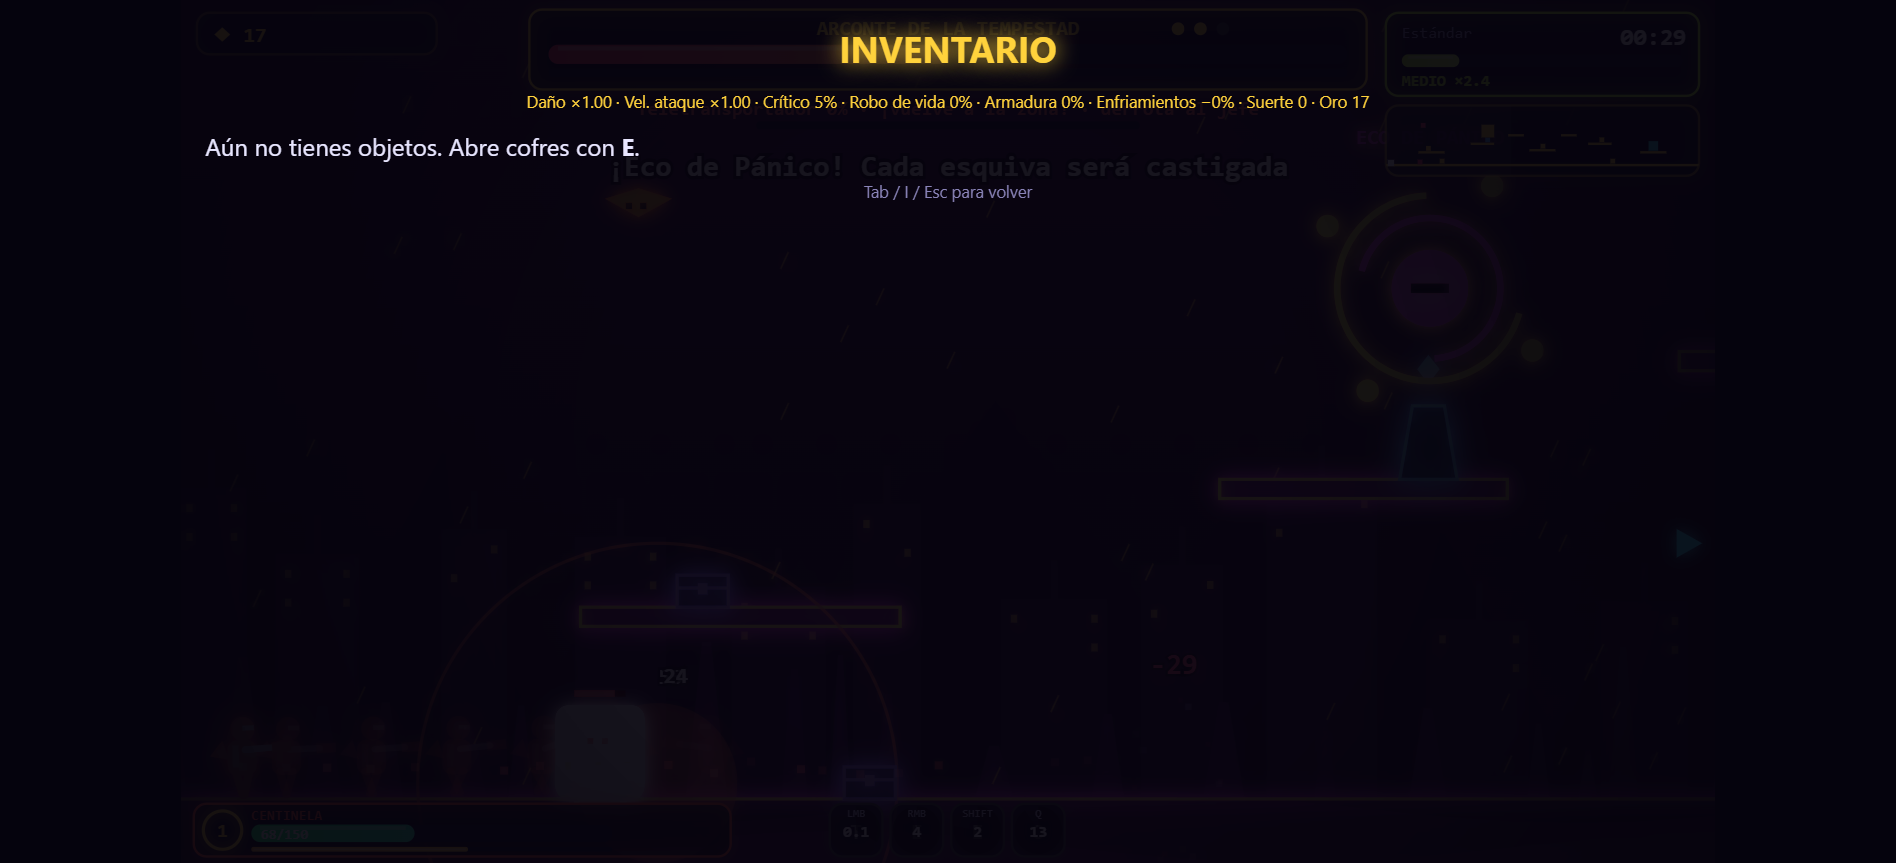
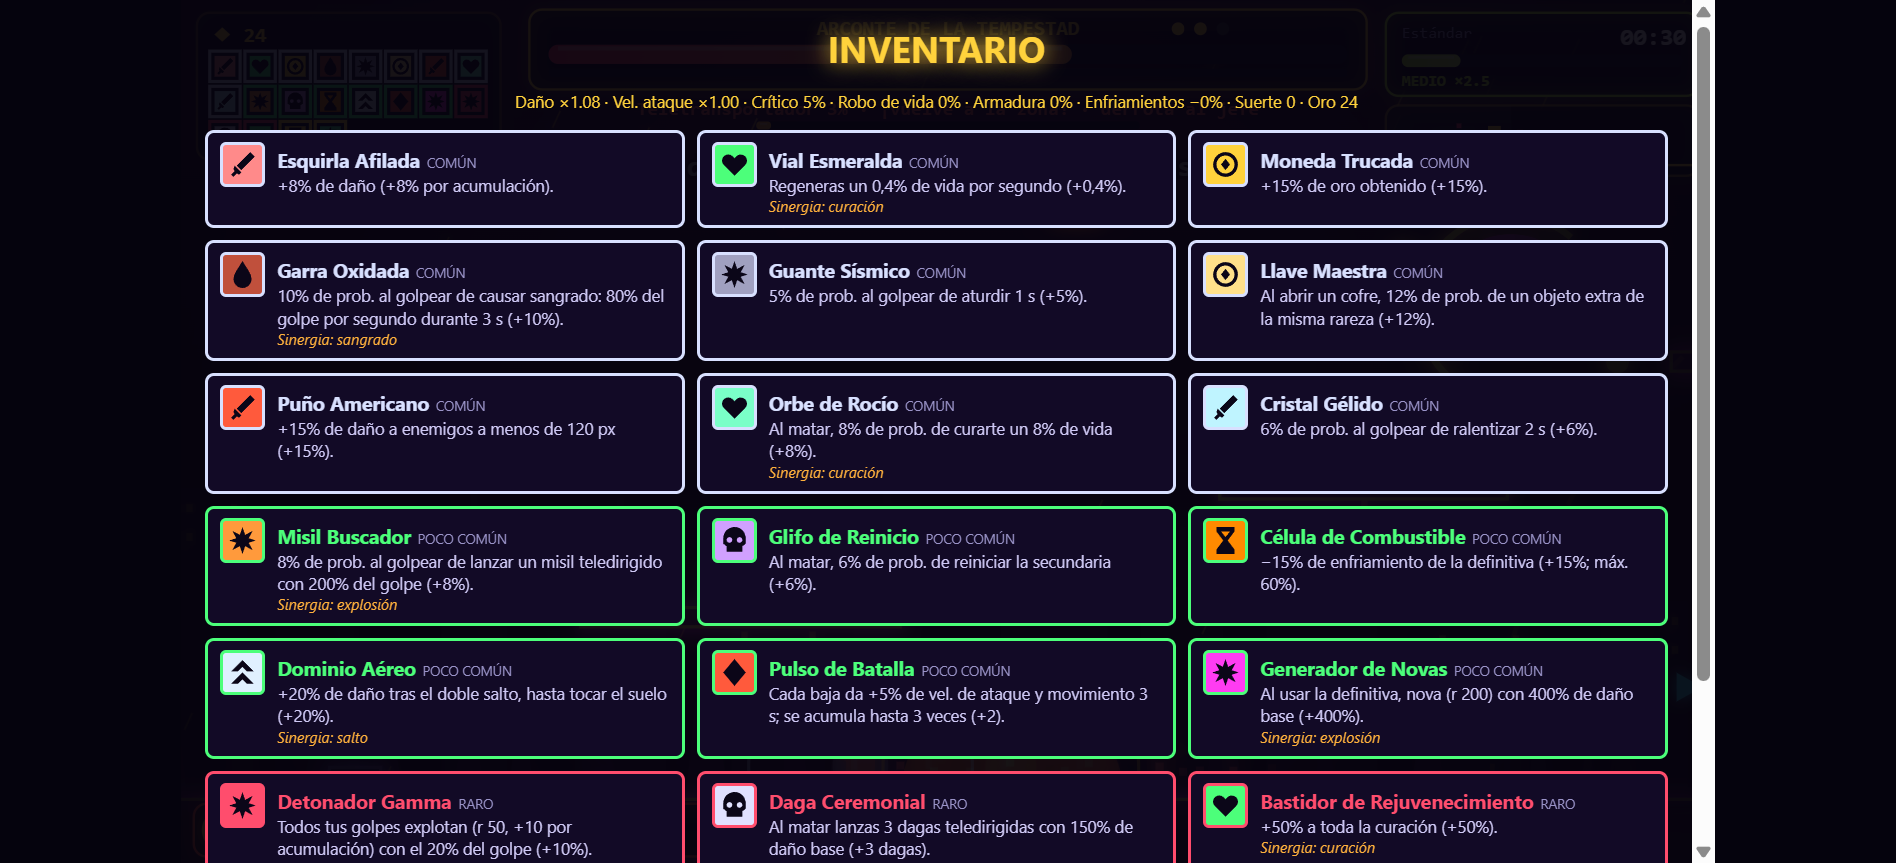
Pulido: ningún golpe se salta fases de jefe, iconos vectoriales, Reina legible y HUD de objetos sin solapes

Changed region(s): [[0.0934, 0.0, 0.9024, 1.0]]

diff --git a/art.js b/art.js
@@ -68,3 +68,49 @@ function drawEnemyArt(e,col){
  g.shadowBlur=0;const dx=sgn(S.p.x-cx)*2,dy=clamp((S.p.y-20-cy)/100,-1,1)*2,ey=e.d.shape==='diamond'||e.d.shape==='circle'||e.d.shape==='wing'||e.d.shape==='hex'?cy-2:e.y-h*.66;
  g.fillStyle=e.tell>0?'#ff3c3c':'#000';g.fillRect(cx-6+dx,ey+dy,4,4);g.fillRect(cx+3+dx,ey+dy,4,4);
 }
+
+/* ===================== ICONOS (glifos vectoriales 24×24) =====================
+   Un trazado SVG por glifo: el canvas lo pinta con Path2D y el HTML con <svg>. El glifo de cada objeto o
+   habilidad se deduce de su texto (tipo, nombre, descripción), así los 92 objetos y 60 habilidades no necesitan datos nuevos. */
+const GLYPH={
+ blade:'M19 1l4 4L11 17l-4-4zM5 13l6 6-2 2-2-1-3 3-2-2 3-3-1-2z',
+ burst:'M12 0l2.4 7L21 3.5 17.5 10 24 12l-6.5 2 3.5 6.5-6.6-3.5L12 24l-2.4-7L3 20.5 6.5 14 0 12l6.5-2L3 3.5 9.6 7z',
+ bolt:'M14 0L3 14h7l-3 10 12-14h-7l4-10z',
+ flame:'M12 0c1 5 8 8 8 15a8 8 0 01-16 0c0-4 3-6 3-10 2 2 3 5 3 5s3-3 2-10z',
+ drop:'M12 0C8 7 4 11 4 16a8 8 0 0016 0c0-5-4-9-8-16z',
+ shield:'M12 0l10 4v7c0 6-4 11-10 13C6 22 2 17 2 11V4z',
+ heart:'M12 22L2.5 12.5a5.5 5.5 0 017.8-7.8L12 6.4l1.7-1.7a5.5 5.5 0 017.8 7.8z',
+ plus:'M8.5 1h7v7.5H23v7h-7.5V23h-7v-7.5H1v-7h7.5z',
+ cross:'M11 0h2v6h-2zM11 18h2v6h-2zM0 11h6v2H0zM18 11h6v2h-6zM12 5a7 7 0 110 14 7 7 0 010-14zm0 3a4 4 0 100 8 4 4 0 000-8zm0 3a1 1 0 100 2 1 1 0 000-2z',
+ wing:'M12 1l10 10h-6l-4-4-4 4H2zM12 12l10 10h-6l-4-4-4 4H2z',
+ dash:'M1 2h6l10 10L7 22H1l10-10zM9 2h5l10 10-10 10H9l10-10z',
+ spring:'M3 2h18v3L9 8h12v3L9 14h12v3L9 20h12v3H3v-3l12-3H3v-3l12-3H3V8l12-3H3z',
+ hourglass:'M4 0h16v4l-6 8 6 8v4H4v-4l6-8-6-8zm4 4l4 5 4-5z',
+ coin:'M12 1a11 11 0 110 22 11 11 0 010-22zm0 3a8 8 0 100 16 8 8 0 000-16zm0 3l4 5-4 5-4-5z',
+ star:'M12 0l3.6 7.4 8.1 1.1-5.9 5.7 1.4 8L12 18.4 4.8 22.2l1.4-8L.3 8.5l8.1-1.1z',
+ book:'M3 1h13l5 5v17H3zm4 7v2.5h10V8zm0 5v2.5h10V13z',
+ bot:'M11 0h2v3h6a2 2 0 012 2v11a2 2 0 01-2 2H5a2 2 0 01-2-2V5a2 2 0 012-2h6zM7 7v5h4V7zm6 0v5h4V7zM6 20h12v4H6z',
+ missile:'M23 1l-2 9-7 7-2-2-4 4-4-4 4-4-2-2 7-7zM4 18l2 2-4 4-2-2z',
+ skull:'M12 0a10 10 0 0110 10v5l-3 2v5H5v-5l-3-2v-5A10 10 0 0112 0zM7.5 9a2.5 2.5 0 100 5 2.5 2.5 0 000-5zm9 0a2.5 2.5 0 100 5 2.5 2.5 0 000-5z',
+ gem:'M12 0l10 12-10 12L2 12z'};
+// en orden: gana la primera regla que encaje (por eso «explosión» va antes que «daño»)
+const GLYPH_RULES=[[/explo|nova|quake|slam|blackhole|orbital|sísm|terremot|onda/,'burst'],[/rayo|eléctr|bobina|chispa|static|chain|storm|beam|tesla|volt/,'bolt'],
+ [/fuego|quem|incendi|ígne|napalm|llama/,'flame'],[/sangr|hemorr|venen|corros|tóx|pact|sacrific/,'drop'],
+ [/escudo|armadura|blind|aegis|fortress|parry|cocoon|égida|bloque/,'shield'],[/roba|cura|regener|lastbreath/,'heart'],[/vida máx/,'plus'],
+ [/crít|snipe|riel|mira/,'cross'],[/salt|leap|jetpack|grapple|antigrav|recoil|alas|vuel/,'wing'],
+ [/enfriamiento|recarg|reloj|tiempo|rewind|freeze|congel/,'hourglass'],[/oro|moneda|cofre|precio|cupón/,'coin'],[/suerte|trébol/,'star'],
+ [/experiencia|nivel/,'book'],[/dron|torreta|turret|summon|raise|mine|bees|queen|invoc|esbirro|abeja/,'bot'],
+ [/misil|cohete|rocket|siege|barrage|granada|ringshot|proyectil|dispar|proj/,'missile'],
+ [/esquiv|dash|blink|voidstep|bloodstep|phase|swap|gate|portal|rift|telet|velocidad de movimiento/,'dash'],
+ [/velocidad de ataque|combo|flurry/,'spring'],[/mata|muert|ejecut|guillotina|warcry|primal|morph|rage|ira\b/,'skull'],
+ [/daño|melee|hammer|golpe|tajo|corte/,'blade']];
+const TAG_GLYPH={'curación':'heart','explosión':'burst','crítico':'cross','sangrado':'drop','veneno':'drop','salto':'wing','fuego':'flame','escudo':'shield','rayo':'bolt'};
+const STAT_GLYPH={dmg:'blade',as:'spring',spd:'dash',dodge:'dash',crit:'cross',critm:'cross',regen:'heart',ls:'heart',healm:'heart',arm:'shield',shield:'shield',
+ oversh:'shield',hpf:'plus',hpm:'plus',jumps:'wing',goldm:'coin',chestm:'coin',xpm:'book',cdr:'hourglass',ucdr:'hourglass',mcdr:'hourglass',luck:'star',exec:'skull'};
+// prioridad: etiqueta de sinergia → primera estadística → tipo de habilidad → texto
+function glyphOf(o){if(!o._g){const rule=s=>(GLYPH_RULES.find(r=>r[0].test(s))||[])[1];
+ o._g=TAG_GLYPH[(o.tags||[])[0]]||STAT_GLYPH[Object.keys(o.st||{})[0]]||(o.t&&rule(o.t))||rule(`${o.name||''} ${o.desc||''}`.toLowerCase())||'gem'}return o._g}
+const GP={};
+// pinta el glifo de o en un cuadrado de lado s con esquina (x,y)
+function drawGlyph(g,o,x,y,s,col){const k=glyphOf(o);g.save();g.translate(x,y);g.scale(s/24,s/24);g.fillStyle=col;g.fill(GP[k]||(GP[k]=new Path2D(GLYPH[k])),'evenodd');g.restore()}
+const glyphSvg=(o,col)=>`<svg viewBox="0 0 24 24" width="18" height="18"><path fill="${col}" fill-rule="evenodd" d="${GLYPH[glyphOf(o)]}"/></svg>`;

diff --git a/tools/smoke.js b/tools/smoke.js
@@ -5,7 +5,7 @@ const fs=require('fs'),path=require('path'),assert=require('assert');
 const root=path.join(__dirname,'..');
 const files=[...fs.readFileSync(path.join(root,'index.html'),'utf8').matchAll(/<script src="([^"]+)"/g)].map(m=>m[1]);
 
-const ctx=new Proxy({},{get:(t,k)=>k in t?t[k]:(k==='createLinearGradient'||k==='createRadialGradient'?()=>({addColorStop(){}}):k==='measureText'?s=>({width:String(s).length*7}):()=>{}),set:(t,k,v)=>(t[k]=v,true)});
+global.Path2D=function(){};const ctx=new Proxy({},{get:(t,k)=>k in t?t[k]:(k==='createLinearGradient'||k==='createRadialGradient'?()=>({addColorStop(){}}):k==='measureText'?s=>({width:String(s).length*7}):()=>{}),set:(t,k,v)=>(t[k]=v,true)});
 const els={},L={};
 const el=id=>els[id]||(els[id]={id,style:{setProperty(){}},innerHTML:'',textContent:'',width:960,height:540,getContext:()=>ctx,addEventListener(){},getBoundingClientRect:()=>({left:0,top:0,width:960,height:540})});
 Object.assign(global,{document:{getElementById:el,createElement:()=>({width:0,height:0,getContext:()=>ctx})},addEventListener:(n,f)=>{L[n]=f},performance:{now:()=>0},requestAnimationFrame(){},setTimeout(){}});
@@ -106,12 +106,12 @@ for(const k of Object.keys(T.ENEMIES)){T.start('vanguard',1);T.S.spawn=1e9;T.spa
 for(const a of T.AFX){T.start('vanguard',3);T.S.spawn=1e9;const e=T.spawnEnemy('crawler',T.S.p.x+150,undefined,1);e.elite=1;e.aff=[a];step(60*8);T.S.p.hp=T.S.p.maxHp}
 // 20. Teletransportador: activar → jefe; jefe muerto + carga completa → listo → etapa 2 guardada
 T.start('vanguard',1);T.useTP();assert(T.S.boss&&T.S.tp.state==='charging');T.S.p.x=T.S.tp.x;T.S.p.y=T.S.tp.y;const c0=T.S.tp.charge;T.S.spawn=1e9;step(120);
-assert(T.S.tp.charge>c0,'no carga estando cerca');T.S.boss.hidden=0;T.hurtE(T.S.boss,1e12,{raw:1});T.S.tp.charge=1;step(2);assert.strictEqual(T.S.tp.state,'ready');
+assert(T.S.tp.charge>c0,'no carga estando cerca');{const b=T.S.boss;b.hidden=0;T.hurtE(b,1e12,{raw:1});assert(!b.dead&&b.ph===2,'un golpe enorme se saltó fases');T.hurtE(b,1e12,{raw:1});assert(!b.dead&&b.ph===3);T.hurtE(b,1e12,{raw:1});assert(b.dead)}T.S.tp.charge=1;step(2);assert.strictEqual(T.S.tp.state,'ready');
 T.useTP();assert.strictEqual(T.S.stage,1);assert.strictEqual(T.loadRun().stage,1);
 // 21. Mecánicas de jefe: Hidra → lava; Leviatán → suelo roto; Arconte → paredes; Reina → la Mirada castiga moverse
 // muerte garantizada: los botines aleatorios pueden traer Ankh, esquiva o intangibilidad
 const killP=()=>{const p=T.S.p;p.items.ankh=0;p.revive=0;p.m.dodge=0;p.buf={};p.inv=0;T.hurtP(1e9)};
-const toStage=(i,d)=>{reset();T.start('vanguard',d||1);for(let k=0;k<i;k++){T.useTP();T.S.boss.hidden=0;T.hurtE(T.S.boss,1e12,{raw:1});T.S.tp.charge=1;step(2);T.useTP()}T.S.spawn=1e9};
+const toStage=(i,d)=>{reset();T.start('vanguard',d||1);for(let k=0;k<i;k++){T.useTP();const b=T.S.boss;b.hidden=0;for(let j=0;j<3;j++)T.hurtE(b,1e12,{raw:1});T.S.tp.charge=1;step(2);T.useTP()}T.S.spawn=1e9};
 const phaseTo=np=>{const b=T.S.boss;b.hidden=0;T.hurtE(b,b.maxHp*(np===2?.4:.35),{raw:1});assert(b.ph>=np)};
 toStage(1);T.useTP();phaseTo(2);assert(T.S.lava,'la Hidra no activó la lava');
 toStage(3);T.useTP();phaseTo(2);step(2);assert(!T.PLAT[0].on&&T.PLAT.some(q=>q.solid&&q.on),'el Leviatán no rompió el suelo');
@@ -194,8 +194,8 @@ console.log('Controles, pausa, récords, mando, táctil y audio: OK');
 function clearStage(secs){const S=T.S;T.useTP();assert(S.boss,'no apareció el jefe');const b=S.boss,id=b.def.name;
  for(let f=0;f<60*secs&&T.S.st!=='over'&&T.S.boss;f++){T.mouse.l=T.mouse.r=f%50<40;if(f%300===0)T.S.p.hp=T.S.p.maxHp;
   if(f%40===0&&!b.dead){b.hidden=0;b.ghost=0;T.hurtE(b,b.maxHp*.035,{raw:1})}step()}
- if(T.S.st==='over')return;if(T.S.boss){T.S.boss.hidden=0;T.hurtE(T.S.boss,1e12,{raw:1})}
- assert(T.S.bossDone,id+' no murió');assert(b.ph>=2,id+' no cambió de fase');  // un golpe enorme puede matarlo antes de la fase 3
+ if(T.S.st==='over')return;for(let i=0;i<3&&T.S.boss&&!b.dead;i++){b.hidden=0;b.ghost=0;T.hurtE(b,1e12,{raw:1})}
+ assert(T.S.bossDone,id+' no murió');assert.strictEqual(b.ph,3,id+' se saltó una fase');
  T.S.tp.charge=1;step(2);assert.strictEqual(T.S.tp.state,'ready');T.useTP()}
 // Matriz: cada personaje × dificultad recorre las 5 etapas (15 s explorando + jefe), vida rellenada → busca excepciones
 let fails=0;

diff --git a/ui.js b/ui.js
@@ -14,9 +14,10 @@ const KEYS={p:'LMB',s:'RMB',m:'SHIFT',u:'Q'};
 function hud(){
  const s=S,p=s.p,t=s.t;screen();c.shadowBlur=0;c.textBaseline='alphabetic';
  // ---- arriba a la izquierda: oro y objetos ----
- const ids=sortedItems(),rows=Math.ceil(ids.length/16);panel(10,8,Math.max(150,Math.min(16,ids.length)*22+14),26+rows*22,'#ffd23c55');
+ const ids=sortedItems(),cols=Math.max(6,(W/2-262-36)/22|0),rows=Math.ceil(ids.length/cols);  // columnas que caben antes de la barra del jefe
+ panel(10,8,Math.max(150,Math.min(cols,ids.length)*22+14),26+rows*22,'#ffd23c55');
  c.textAlign='left';c.font='bold 13px monospace';c.fillStyle='#ffd23c';c.fillText(`◆ ${p.gold}`,20,26);
- ids.forEach((id,i)=>drawIcon(ITEM[id],18+(i%16)*22,32+(i/16|0)*22,19,p.items[id]));
+ ids.forEach((id,i)=>drawIcon(ITEM[id],18+(i%cols)*22,32+(i/cols|0)*22,19,p.items[id]));
  // ---- arriba a la derecha: reloj y medidor de dificultad ----
  const co=coef(),ti=Math.min(DIFF_TIERS.length-1,(co-1)/1.2|0),tier=DIFF_TIERS[ti],m=Math.floor(s.clock/60),sc=Math.floor(s.clock%60);
  panel(W-206,8,196,p.revive>0?66:52,tier[1]);
@@ -51,7 +52,7 @@ function hud(){
  // ---- habilidades con enfriamiento radial ----
  SLOTS.split('').forEach((k,i)=>{const d=ab(k),x=W/2-74+i*38,y=H-37,cd=p.cd[k],mx=maxCd(k,d),ready=cd<=0;
   panel(x,y,33,33,ready?col:'#444',.85);
-  c.textAlign='center';c.font='bold 14px monospace';c.fillStyle=ready?col:'#666';c.fillText(d.name[0],x+16.5,y+22);
+  drawGlyph(c,d,x+7.5,y+7.5,18,ready?col:'#666');c.textAlign='center';
   if(!ready){c.save();c.beginPath();c.moveTo(x+16.5,y+16.5);c.arc(x+16.5,y+16.5,15,-Math.PI/2,-Math.PI/2+6.283*clamp(cd/mx,0,1));c.closePath();c.fillStyle='rgba(0,0,0,.6)';c.fill();c.restore();
    c.font='bold 10px monospace';c.fillStyle='#fff';c.fillText(cd<1?cd.toFixed(1):Math.ceil(cd),x+16.5,y+21)}
   c.font='7px monospace';c.fillStyle='#cfc9f5';c.fillText(KEYS[k],x+16.5,y+8);
@@ -81,13 +82,13 @@ function drawMinimap(x,y,w,h){const s=S,sx=w/WORLD,sy=(h-8)/(FLOOR+40),X=v=>x+v*
  c.fillStyle='#fff';c.fillRect(X(s.p.x)-2,Y(s.p.y-20)-2,4,4);c.restore()}
 const sortedItems=()=>Object.keys(S.p.items).filter(id=>S.p.items[id]>0).sort((a,b)=>'curlmf'.indexOf(ITEM[a].r)-'curlmf'.indexOf(ITEM[b].r));
 function drawIcon(it,x,y,s,n){const rc=RARITY[it.r].col;c.fillStyle='#120a26';c.fillRect(x,y,s,s);c.fillStyle=it.col;c.fillRect(x+3,y+3,s-6,s-6);
- c.strokeStyle=rc;c.lineWidth=2;c.strokeRect(x,y,s,s);c.fillStyle='#000';c.font=`bold ${s*.5|0}px monospace`;c.textAlign='center';c.fillText(it.name[0],x+s/2,y+s*.68);
+ c.strokeStyle=rc;c.lineWidth=2;c.strokeRect(x,y,s,s);drawGlyph(c,it,x+s*.2,y+s*.2,s*.6,'#0b0618');
  if(n>1){c.fillStyle='#fff';c.font='bold 9px monospace';c.textAlign='right';c.fillText(n,x+s+2,y+s+2)}}
 function wrapText(t,x,y,w,lh){let line='';for(const word of t.split(' ')){const tl=line?line+' '+word:word;if(c.measureText(tl).width>w&&line){c.fillText(line,x,y);y+=lh;line=word}else line=tl}c.fillText(line,x,y)}
 
 /* ===================== INVENTARIO Y ALTAR ===================== */
 function itemCard(it,n){const rc=RARITY[it.r].col;
- return `<div class="item" style="--c:${rc}"><span class="ico" style="background:${it.col}">${esc(it.name[0])}</span><div><b>${esc(it.name)}${n>1?' ×'+n:''}</b> <em>${RARITY[it.r].n}</em>
+ return `<div class="item" style="--c:${rc}"><span class="ico" style="background:${it.col}">${glyphSvg(it,'#0b0618')}</span><div><b>${esc(it.name)}${n>1?' ×'+n:''}</b> <em>${RARITY[it.r].n}</em>
   <small>${esc(it.desc)}</small>${it.tags?`<i>Sinergia: ${it.tags.join(', ')}</i>`:''}</div></div>`}
 function toggleInv(){
  if(S.st==='inv'){$('inv').style.display='none';S.st='play';mouse.l=mouse.r=0;return}

diff --git a/bosses.js b/bosses.js
@@ -78,9 +78,13 @@ const BOSSES={
    // Guadaña Espectral: barrido a la altura de tu torso; hay que cambiar de altura (con las plataformas parpadeando)
    {ph:3,cd:3.2,f(b,f,dm){const s=Math.random()<.5?-1:1,y=S.p.y-S.p.h/2-25;TG.rect(s<0?WORLD:-160,y,160,50,.9,32*dm,'#c8d2ff',{vx:-s*700,life:4,sweep:1});say('¡Guadaña Espectral!')}}],
   onPhase(b,np){if(np===3)for(const q of PLAT)if(!q.solid&&!(S.tp.y===q.y&&S.tp.x>q.x&&S.tp.x<q.x+q.w))q.bl=3},
-  draw(e){const cx=e.x,top=e.y-e.h;c.fillStyle=e.flash>0?'#fff':'#c8d2ffcc';c.beginPath();c.moveTo(cx-40,e.y);c.lineTo(cx-14,top+30);c.lineTo(cx+14,top+30);c.lineTo(cx+40,e.y);c.fill();
-   c.beginPath();c.arc(cx,top+22,18,0,6.283);c.fill();c.fillStyle='#ffd23c';for(let k=-1;k<=1;k++){c.beginPath();c.moveTo(cx+k*10-5,top+6);c.lineTo(cx+k*10,top-8);c.lineTo(cx+k*10+5,top+6);c.fill()}
-   const g=e.gaze,open=g&&g.warn<=0;c.fillStyle=open?'#ff3c6a':g?'#ffd23c':'#000';c.beginPath();c.ellipse(cx,top+22,open?9:7,open?7:2,0,0,6.283);c.fill();
+  // cuerpo oscuro translúcido con borde luminoso: relleno claro + bloom la volvía una mancha blanca
+  draw(e){const cx=e.x,top=e.y-e.h,gr=c.createLinearGradient(0,top,0,e.y);gr.addColorStop(0,'#3b3070ee');gr.addColorStop(1,'#140f2a22');
+   c.fillStyle=e.flash>0?'#fff':gr;c.strokeStyle='#c8d2ff';c.lineWidth=2.5;
+   c.beginPath();c.moveTo(cx-14,top+30);c.lineTo(cx+14,top+30);c.lineTo(cx+40,e.y);  // dobladillo deshilachado
+   for(let i=1;i<8;i++)c.lineTo(cx+40-i*10,e.y-(i%2?14+6*Math.sin(S.t*4+i):0));c.lineTo(cx-40,e.y);c.closePath();c.fill();c.stroke();
+   c.beginPath();c.arc(cx,top+22,18,0,6.283);c.fill();c.stroke();c.fillStyle='#ffd23c';for(let k=-1;k<=1;k++){c.beginPath();c.moveTo(cx+k*10-5,top+6);c.lineTo(cx+k*10,top-8);c.lineTo(cx+k*10+5,top+6);c.fill()}
+   const g=e.gaze,open=g&&g.warn<=0;c.fillStyle=open?'#ff3c6a':g?'#ffd23c':'#c8d2ff';c.beginPath();c.ellipse(cx,top+22,open?9:7,open?7:2,0,0,6.283);c.fill();
    if(g){c.fillStyle=open?'#ff3c6a':'#ffd23c';c.font='bold 14px monospace';c.textAlign='center';c.fillText(open?'👁 NO TE MUEVAS':'👁 …',cx,top-20)}c.shadowBlur=0}},
 
  /* ---------- 4. LEVIATÁN DE DATOS (Abismo Digital) ---------- */

diff --git a/tools/browser.js b/tools/browser.js
@@ -37,7 +37,9 @@ const sleep=ms=>new Promise(r=>setTimeout(r,ms));
  for(const [i,b] of [[0,'prisma'],[1,'hydra'],[2,'queen'],[3,'leviathan'],[4,'archon']]){
   await js(`if(S.st!=='play')document.querySelector('#nodes .card')?.click();loadStage(${i});useTP();S.boss.hidden=0;hurtE(S.boss,S.boss.maxHp*.5,{raw:1});S.p.hp=S.p.maxHp`);
   await sleep(4500);await shot(`04-jefe-${i+1}-${b}`)}
- await js("toggleInv()");await sleep(500);await shot('05-inventario');await js("toggleInv()");
+ // inventario con objetos de todas las rarezas (sin los fragmentados, que cambian la vida máxima) y HUD con habilidades listas
+ await js("Object.values(ITEM).filter(it=>it.r!=='f').filter((it,i)=>i%4===0).forEach(it=>giveItem(it.id,1));S.p.hp=S.p.maxHp;for(const k in S.p.cd)S.p.cd[k]=0");
+ await sleep(300);await shot('05b-hud');await js("toggleInv()");await sleep(500);await shot('05-inventario');await js("toggleInv()");
  // audio real: el contexto debe arrancar y la música programar notas
  await cmd('Input.dispatchKeyEvent',{type:'keyDown',code:'KeyM',key:'m'});await cmd('Input.dispatchKeyEvent',{type:'keyUp',code:'KeyM',key:'m'});
  await js("Save.d.settings.mute=false;Snd.apply()");await sleep(400);

diff --git a/engine.js b/engine.js
@@ -114,6 +114,7 @@ function hurtE(e,d,o){
  for(const a of e.aff)if(a.taken)d=a.taken(e,d);
  if(e.sh>0){const a=Math.min(e.sh,d);e.sh-=a;d-=a}
  if(d<=0)return;
+ if(e.boss&&e.ph<3)d=Math.min(d,e.hp-e.maxHp*(e.ph===1?.655:.325));  // un golpe no puede saltarse una fase: se queda en el umbral
  e.hp-=d;e.flash=.1;e.lastCrit=crit;txt(e.x+R(-10,10),e.y-e.h-6,Math.round(d)+(crit?'!':''),crit?'#ffd23c':o.dot?'#d9a0ff':o.proc?'#9ae6ff':'#fff',crit?20:o.dot?11:o.proc?12:14);
  if(crit&&(e.elite||e.boss)&&!o.proc&&hsCd<=0){hitStop(30);hsCd=.25}
  // Guillotina: ejecuta a los no-jefes por debajo del umbral

diff --git a/README.md b/README.md
@@ -30,7 +30,7 @@ Elige uno de 20 personajes y cruza 5 escenarios. En cada uno buscas el teletrans
   | Abismo Digital | Leviatán de Datos |
   | Núcleo de la Tempestad | Arconte de la Tempestad |
 
-  Cada jefe tiene 3 fases, barra de ruptura de guardia, ataques telegrafiados que castigan el pánico y plataformas que cambian durante el combate.
+  Cada jefe tiene 3 fases (ningún golpe puede saltarse una), barra de ruptura de guardia, ataques telegrafiados que castigan el pánico y plataformas que cambian durante el combate.
 - **Enemigos.** 15 tipos (voladores, tiradores, kamikazes, tanques, etc.) y 11 afijos de élite.
 - **Dificultades.**
 
@@ -158,8 +158,6 @@ Las sinergias entre objetos van por un bus de eventos: `onHit`, `onKill`, `onJum
 - [x] Fase 6: escritorio con Electron, Android con Capacitor y este README.
 
 **Pendiente**
-- [ ] Iconos dibujados para objetos y habilidades (ahora son iniciales).
 - [ ] Probar en móviles y mandos reales: ajustar el tamaño de los botones táctiles y la sensibilidad.
-- [ ] Revisar el balance de Berserker en Pesadilla Absoluta: puede saltarse una fase de jefe de un golpe.
 - [ ] Icono propio para el `.exe` y el APK.
 - [ ] Más escenarios y un modo infinito tras el Arconte.
